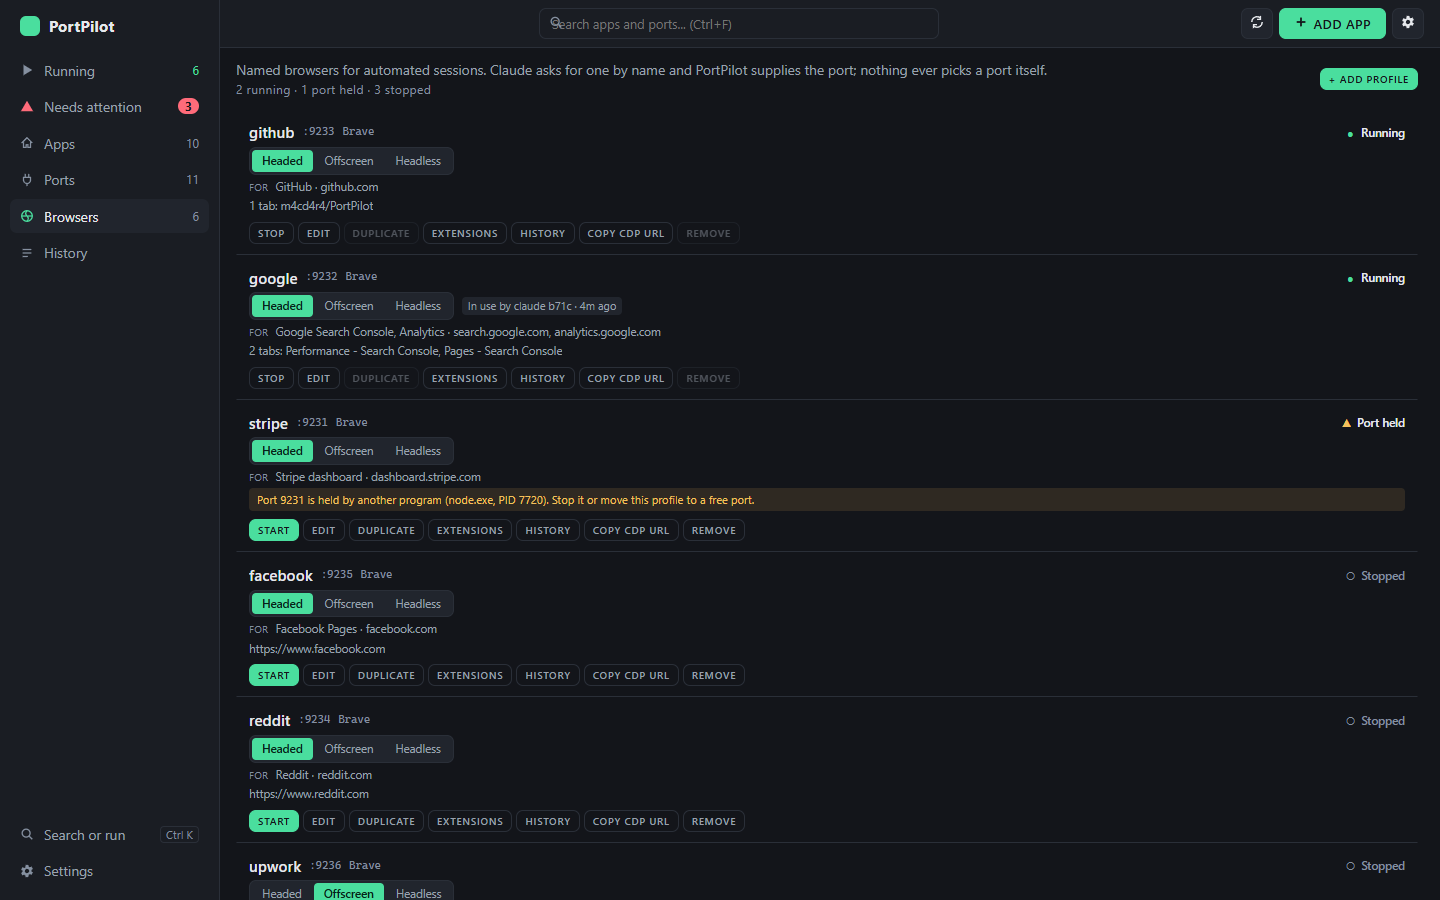
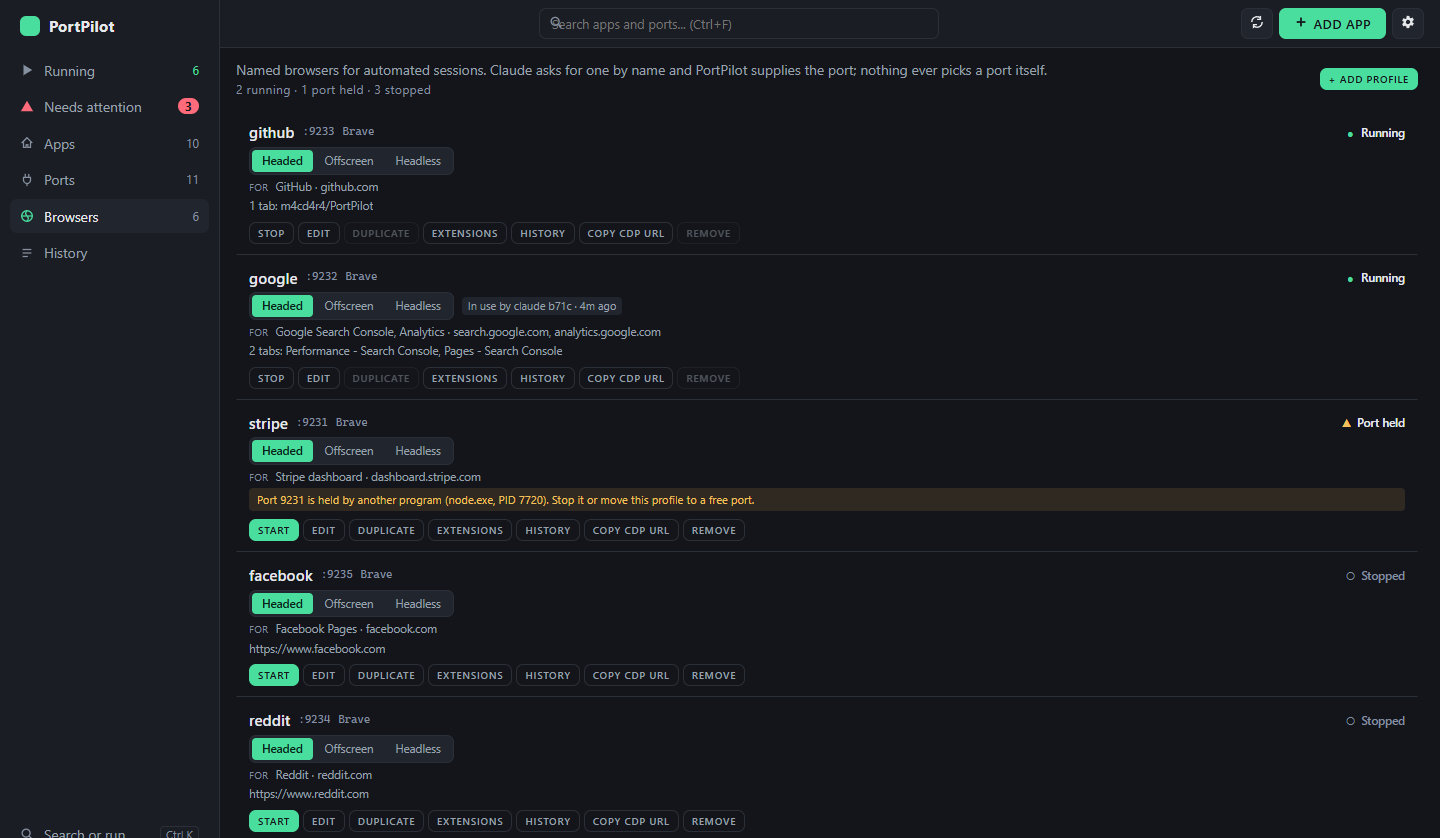
docs(site): crop the Browsers screenshot above the upwork row

diff --git a/docs/index.html b/docs/index.html
@@ -248,7 +248,7 @@
             <h3>One profile, one port, its own sign-ins</h3>
             <p>A browser opens with <code>--remote-debugging-port=&lt;n&gt;</code>, and anything that can reach <code>127.0.0.1:&lt;n&gt;</code> can read its tabs and click in them. A PortPilot profile is a named browser with its own sign-ins and its own port, so <code>google</code> stays signed in to Search Console while <code>github</code> stays signed in to GitHub. Nothing picks a port by chance. If another program holds a profile's port, the row says which one.</p>
           </div>
-          <img src="demo/screenshots/browsers-1440.png" class="crop zoomable" tabindex="0" width="1440" height="900" loading="lazy" alt="The Browsers tab: six profiles, google and github running with their open tabs, reddit, facebook and upwork stopped, and stripe flagged because another program holds its port">
+          <img src="demo/screenshots/browsers-1440.png" class="crop zoomable" tabindex="0" width="1440" height="838" loading="lazy" alt="The Browsers tab: google and github running with their open tabs, reddit and facebook stopped, and stripe flagged because another program holds its port">
         </div>
         <div class="feature-row reveal">
           <div class="feature-copy">
